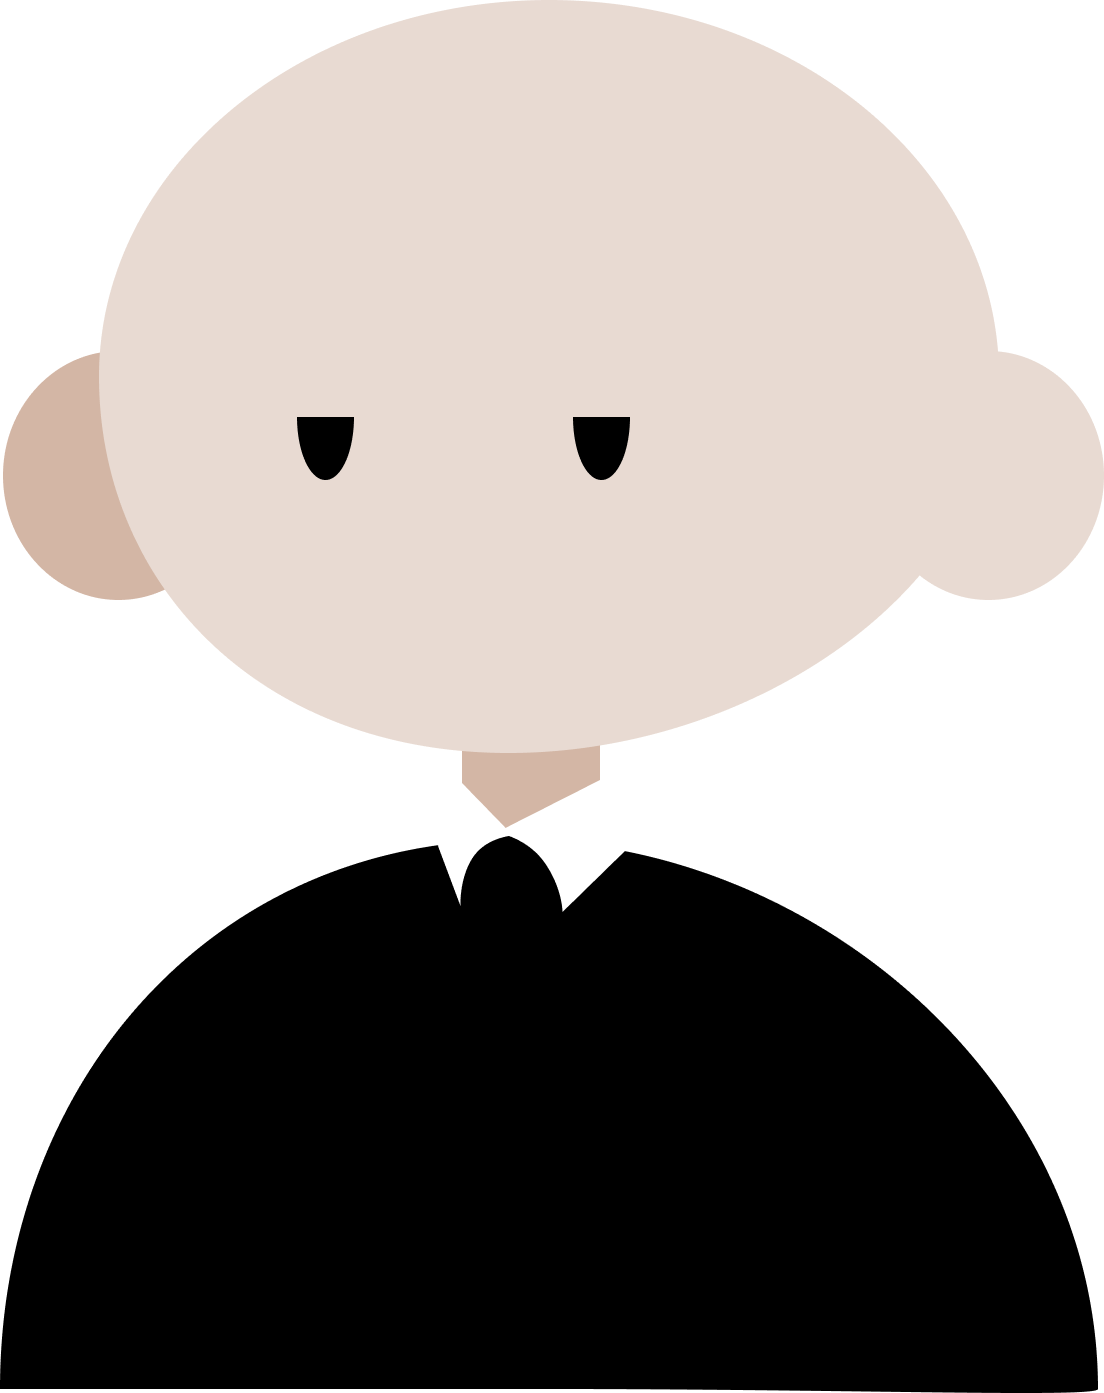
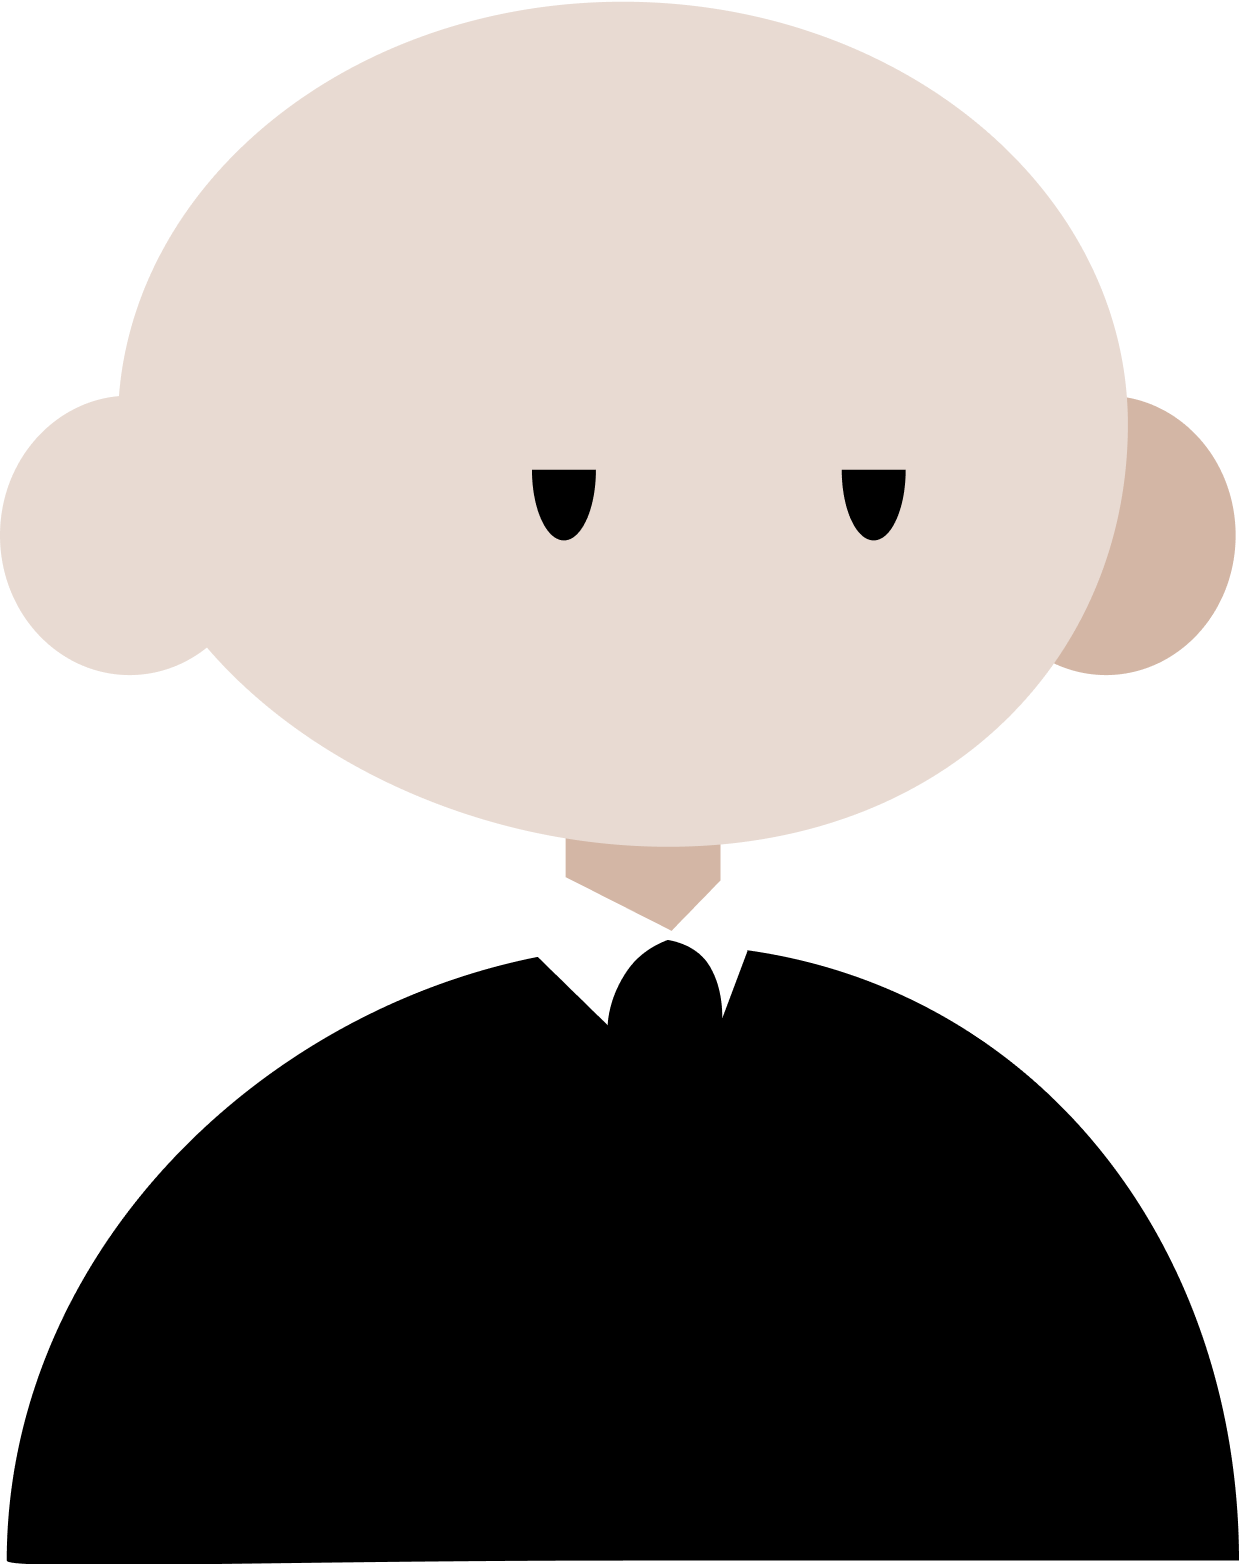
Create TypingText

diff --git a/web/src/page/play/scene/ScenePage.tsx b/web/src/page/play/scene/ScenePage.tsx
@@ -2,24 +2,36 @@ import * as S from './ScenePage.style';
 import {Background} from "@src/component/Background.style";
 import {Chats, UserDictionary} from "@src/@types/types";
 import {useState} from "react";
+import {useLocation} from "react-router-dom";
+import TypingText from "@src/component/TypingText";
 
 interface ScenePageProps {
     backgroundUrl: string;
     chats: Chats[];
-    onEnd: () => void;
+    onEnded: () => void;
 }
 
 export default function ScenePage(
     {
         backgroundUrl,
         chats,
-        onEnd
+        onEnded
     }: ScenePageProps
 ) {
-
+    const location = useLocation();
     const [selectedIdx, setSelectedIdx] = useState(0);
     const chat = chats[selectedIdx];
     const user = UserDictionary[chat.userType];
+    const name = location.state.name;
+
+    function handleKeyDown() {
+        if (selectedIdx + 1 >= chats.length) {
+            onEnded();
+            return;
+        }
+
+        setSelectedIdx(i => i + 1);
+    }
 
     return (
         <S.Container>
@@ -41,17 +53,13 @@ export default function ScenePage(
                     {/*256 = 2 ^ 8 ㅋㅋ 깔끔하죠?*/}
                     <S.Chat>
                         <S.Name>
-                            {user.name ?? 'TODO: Add username'}
+                            {user.name ?? name}
                         </S.Name>
-                        하.. 이런 열심히 준비했는데 탈락이라니
-                        <img
-                            style={{
-                                alignSelf: 'center',
-                            }}
-                            src={'polygon/chat-indicator.png'}
-                            width={7}
-                            height={10}
-                            className={'blinking-text'}
+                        {/*하.. 이런 열심히 준비했는데 탈락이라니*/}
+                        <TypingText
+                            text={chat.message}
+                            speed={50}
+                            onEnded={handleKeyDown}
                         />
                     </S.Chat>
                 </div>

diff --git a/web/src/component/TypingText.tsx b/web/src/component/TypingText.tsx
@@ -1,0 +1,70 @@
+import React, {useState, useEffect} from "react";
+
+interface TypingTextProps {
+    text: string;
+    speed: number;
+    onEnded: () => void;
+}
+
+export default function TypingText(
+    {
+        text,
+        speed,
+        onEnded
+    }: TypingTextProps
+) {
+    const [isEnded, setIsEnded] = useState(false);
+    const [displayText, setDisplayText] = useState('');
+
+    useEffect(() => {
+        setDisplayText('');
+    }, [text]);
+
+    useEffect(() => {
+        window.addEventListener('keydown', (e) => {
+            if (isEnded && (e.key === 'Enter' || e.key === ' ')) {
+                onEnded();
+            }
+        });
+    }, [isEnded, onEnded]);
+
+    useEffect(() => {
+        let currentIndex = 0;
+        const intervalId = setInterval(() => {
+            const t = text[currentIndex];
+            if (t !== undefined) {
+                setDisplayText(prev => prev + t);
+                currentIndex += 1;
+            }
+            if (currentIndex === text.length) {
+                clearInterval(intervalId);
+                setIsEnded(true);
+            }
+        }, speed);
+
+        return () => clearInterval(intervalId);
+    }, [speed, onEnded, text]);
+
+    return (
+        <div
+            style={{
+                display: "flex",
+                alignItems: "center",
+                gap: 8
+            }}
+        >
+            <span>{displayText}</span>
+            {isEnded && (
+                <img
+                    style={{
+                        alignSelf: 'center',
+                    }}
+                    src={'polygon/chat-indicator.png'}
+                    width={7}
+                    height={10}
+                    className={'blinking-text'}
+                />
+            )}
+        </div>
+    );
+};

diff --git a/web/src/page/start/StartPage.tsx b/web/src/page/start/StartPage.tsx
@@ -7,7 +7,7 @@ import {useNavigate} from "react-router-dom";
 
 export default function StartPage() {
 
-    const [startFlow, setStartFlow] = useState(4);
+    const [startFlow, setStartFlow] = useState(0);
     const [name, setName] = useState('');
     const navigate = useNavigate();
 
@@ -106,7 +106,11 @@ export default function StartPage() {
                             left: '50%'
                         }}
                         onClick={() => {
-                            navigate('play');
+                            navigate('play', {
+                                state: {
+                                    name
+                                }
+                            });
                         }}
                     >
                         시작하기

diff --git a/web/src/page/play/PlayPage.tsx b/web/src/page/play/PlayPage.tsx
@@ -3,9 +3,10 @@ import ScenePage from "@src/page/play/scene/ScenePage";
 import {UserType} from "@src/@types/types";
 
 export default function PlayPage() {
+
     return (
         <ScenePage
-            backgroundUrl={'image/bg1.webp'}
+            backgroundUrl={'image/bg3.png'}
             chats={[
                 {
                     userType: UserType.Hero,
@@ -16,7 +17,7 @@ export default function PlayPage() {
                     message: '평소보다 더 잘 일어난 박병춘은 회사를 가기위해 샤워를 하고 나와 업무 확인을 하기위해 폰을 본다.'
                 }
             ]}
-            onEnd={() => {
+            onEnded={() => {
 
             }}
         />

diff --git a/web/src/page/play/scene/ScenePage.style.ts b/web/src/page/play/scene/ScenePage.style.ts
@@ -39,10 +39,9 @@ export const Name = styled.h1`
 export const Chat = styled.div`
     // layout
     display: flex;
-    padding: 40px 0;
+    padding: 40px 40px;
     justify-content: center;
     position: relative;
-    gap: 8px;
 
     // style
     color: black;

diff --git a/web/src/@types/types.ts b/web/src/@types/types.ts
@@ -15,8 +15,7 @@ export const UserDictionary: {
     }
 } = {
     [UserType.Hero]: {
-
-        image: 'image/char2.png',
+        image: 'image/char3.png',
     },
     [UserType.Narration]: {
         name: '나레이션',
